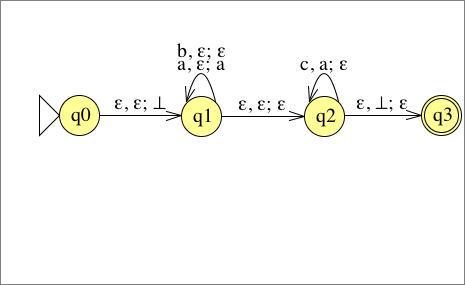
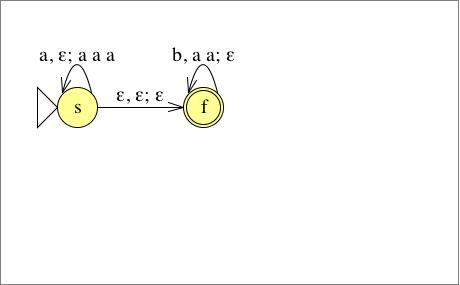
Aufgabe 3 fertig

Changed region(s): [[0.0609, 0.1404, 1.0, 0.5053], [0.0913, 0.1684, 0.2739, 0.2526]]

diff --git a/Übung 07/übung07.md b/Übung 07/übung07.md
@@ -19,13 +19,13 @@ $$\Delta = \{((s,a,\varepsilon),(s,aaa)),((s,\varepsilon,\varepsilon),(f,\vareps
 
 a) **Welche Sprache wird von M akzeptiert?**
 
-
 $\{ w \in \{a,b\}^* | 2*|w|_a = 3*|w|_b\}$
 
 b) **Transformieren Sie M in einen äquivalenten Kellerautomaten M′ in Normalform.**
 
-![Automat](Automat3.jpg)
+![Automat](Automat3_GNF.jpg)
 
+---
 ## Aufgabe 4:
 **Sei $M=(K,\Sigma,\Gamma,\Delta,s,F)$ der durch nebenstehendes Zustandsübergangsdiagramm gegebene Kellerautomat. M ist in Normalform. In der Vorlesung haben wir ein Konstruktionsverfahren kennengelernt, um eine kontextfreie Grammatik G zu erzeugen, so dass $L(G)=L(M)$. Geben Sie eine Ableitung für das Wort $aababb \in L(G)$ an. Sie brauchen hier nur jene Produktionsregeln der Grammatik zu erzeugen, die Sie für die Ableitung benötigen.**
 
